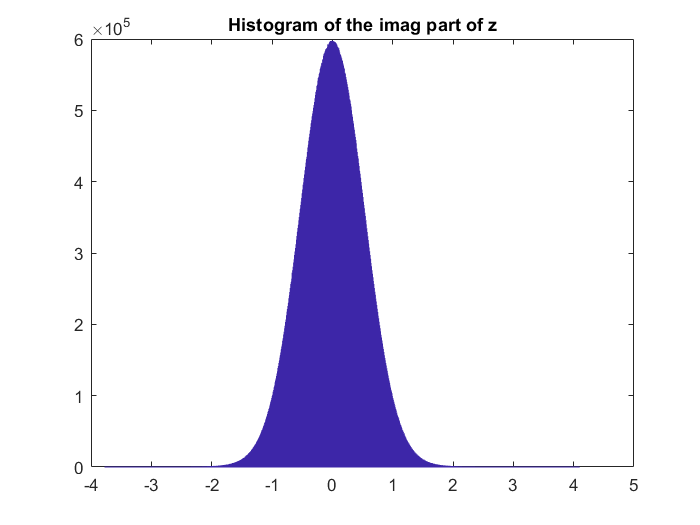
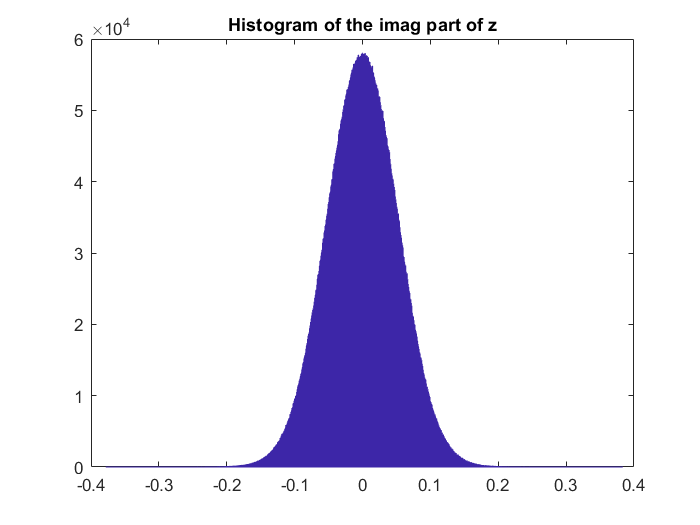
New scripts with different loss functions

diff --git a/Massive MIMO/simulations/Channel Estimation With Pilot Contamination in Flat Fading Channel/proposed_estimator_mean_and_variancev2.m b/Massive MIMO/simulations/Channel Estimation With Pilot Contamination in Flat Fading Channel/proposed_estimator_mean_and_variancev2.m
@@ -1,0 +1,54 @@
+clear all;close all;clc
+
+M = 10;
+a = 2;
+
+numIter = 100000;
+z1_acc = zeros(1,numIter);
+z2_acc = zeros(1,numIter);
+zM_acc = zeros(1,numIter);
+for iter=1:1:numIter
+    
+    x = sqrt(a)*(1/sqrt(2))*complex(randn(M,1),randn(M,1));
+    
+    denominator = (x'*x);
+    z1 = (x(1,1) / denominator);
+    z2 = (x(2,1) / denominator);
+    zM = (x(M,1) / denominator);
+    
+    z1_acc(iter) = z1;
+    z2_acc(iter) = z2;
+    zM_acc(iter) = zM;
+    
+end
+
+z1_real_mean = mean(real(z1_acc));
+z1_imag_mean = mean(imag(z1_acc));
+z1_var = var(z1_acc);
+
+z2_real_mean = mean(real(z2_acc));
+z2_imag_mean = mean(imag(z2_acc));
+z2_var = var(z2_acc);
+
+zM_real_mean = mean(real(zM_acc));
+zM_imag_mean = mean(imag(zM_acc));
+zM_var = var(zM_acc);
+
+n = M;
+u = -0.4:0.01:0.4;
+fu = zeros(1,length(u));
+for u_idx=1:1:length(u)
+    bessel1 = besseli(n,(1./(4*(u(u_idx).^2))));
+    bessel2 = besseli(n+1,(1./(4*(u(u_idx).^2))));
+    fu(u_idx) = exp(-1./(4*(u(u_idx).^2)))*( ( (8*n*u(u_idx).^2 - 1)*bessel1 + bessel2 ) / (4*(abs(u(u_idx)).^3)) );
+end
+
+figure(1);
+histogram(real(z1_acc),'Normalization','pdf');
+hold on
+plot(u,fu)
+hold off
+title('Histogram of the real part of z')
+figure(2)
+histogram(real(z1_acc),'Normalization','pdf'); 
+title('Histogram of the imag part of z')

diff --git a/Massive MIMO/simulations/Channel Estimation With Pilot Contamination in Flat Fading Channel/proposed_estimator_mean_and_variancev4.m b/Massive MIMO/simulations/Channel Estimation With Pilot Contamination in Flat Fading Channel/proposed_estimator_mean_and_variancev4.m
@@ -1,0 +1,51 @@
+clear all;close all;clc
+
+M = 10;
+a = 2;
+
+numIter = 10000000;
+z1_acc = zeros(1,numIter);
+z2_acc = zeros(1,numIter);
+zM_acc = zeros(1,numIter);
+for iter=1:1:numIter
+    
+    x = sqrt(a)*(1/sqrt(2))*complex(randn(M,1),randn(M,1));
+    
+    denominator = (x'*x);
+    z1 = (x(1,1) / denominator);
+    z2 = (x(2,1) / denominator);
+    zM = (x(M,1) / denominator);
+    
+    z1_acc(iter) = z1;
+    z2_acc(iter) = z2;
+    zM_acc(iter) = zM;
+    
+end
+
+z1_real_mean = mean(real(z1_acc));
+z1_imag_mean = mean(imag(z1_acc));
+z1_var = var(z1_acc);
+
+z2_real_mean = mean(real(z2_acc));
+z2_imag_mean = mean(imag(z2_acc));
+z2_var = var(z2_acc);
+
+zM_real_mean = mean(real(zM_acc));
+zM_imag_mean = mean(imag(zM_acc));
+zM_var = var(zM_acc);
+
+n = M;
+u = -0.4:0.01:0.4;
+%u = -0.01:0.001:0.01;
+fu = zeros(1,length(u));
+for u_idx=1:1:length(u)
+    bessel1 = besseli(n,(1./(4*(u(u_idx).^2))));
+    bessel2 = besseli(n+1,(1./(4*(u(u_idx).^2))));
+    fu(u_idx) = exp(-1./(4*(u(u_idx).^2)))*( ( (8*n*u(u_idx).^2 - 1)*bessel1 + bessel2 ) / (4*(abs(u(u_idx)).^3)) );
+end
+
+figure(1);
+%histogram(real(z1_acc),'Normalization','pdf');
+hold on
+plot(u,fu,'LineWidth',2)
+hold off

diff --git a/Massive MIMO/simulations/Deep Learning/deep_learning_mmimo_channel_estimation_loss_msa.py b/Massive MIMO/simulations/Deep Learning/deep_learning_mmimo_channel_estimation_loss_msa.py
@@ -32,13 +32,13 @@ model.add(Dense(M*K*2, activation='linear'))
 sgd = SGD(lr=0.01, decay=1e-6, momentum=0.9, nesterov=True)
 
 # Compile model.
-model.compile(loss='categorical_crossentropy', optimizer=sgd, metrics=['accuracy'])
+model.compile(loss='mean_absolute_error', optimizer=sgd, metrics=['accuracy'])
 
 # Train model.
-model.fit(x_train, y_train, epochs=20, batch_size=128)
+model.fit(x_train, y_train, epochs=100, batch_size=100)
 
 # Test model.
-score = model.evaluate(x_test, y_test, batch_size=128)
+score = model.evaluate(x_test, y_test, batch_size=100)
 
 print('Test loss:', score[0])
 print('Test accuracy:', score[1])

diff --git a/Massive MIMO/simulations/Deep Learning/deep_learning_mmimo_channel_estimation_loss_mse.py b/Massive MIMO/simulations/Deep Learning/deep_learning_mmimo_channel_estimation_loss_mse.py
@@ -32,13 +32,13 @@ model.add(Dense(M*K*2, activation='linear'))
 sgd = SGD(lr=0.01, decay=1e-6, momentum=0.9, nesterov=True)
 
 # Compile model.
-model.compile(loss='categorical_crossentropy', optimizer=sgd, metrics=['accuracy'])
+model.compile(loss='mean_squared_error', optimizer=sgd, metrics=['accuracy'])
 
 # Train model.
-model.fit(x_train, y_train, epochs=20, batch_size=128)
+model.fit(x_train, y_train, epochs=100, batch_size=100)
 
 # Test model.
-score = model.evaluate(x_test, y_test, batch_size=128)
+score = model.evaluate(x_test, y_test, batch_size=100)
 
 print('Test loss:', score[0])
 print('Test accuracy:', score[1])

diff --git a/Massive MIMO/simulations/Deep Learning/deep_learning_mmimo_channel_estimation_loss_cce.py b/Massive MIMO/simulations/Deep Learning/deep_learning_mmimo_channel_estimation_loss_cce.py
@@ -35,10 +35,10 @@ sgd = SGD(lr=0.01, decay=1e-6, momentum=0.9, nesterov=True)
 model.compile(loss='categorical_crossentropy', optimizer=sgd, metrics=['accuracy'])
 
 # Train model.
-model.fit(x_train, y_train, epochs=20, batch_size=128)
+model.fit(x_train, y_train, epochs=100, batch_size=100)
 
 # Test model.
-score = model.evaluate(x_test, y_test, batch_size=128)
+score = model.evaluate(x_test, y_test, batch_size=100)
 
 print('Test loss:', score[0])
 print('Test accuracy:', score[1])

diff --git a/Massive MIMO/simulations/Channel Estimation With Pilot Contamination in Flat Fading Channel/proposed_estimator_mean_and_variancev3.m b/Massive MIMO/simulations/Channel Estimation With Pilot Contamination in Flat Fading Channel/proposed_estimator_mean_and_variancev3.m
@@ -1,0 +1,14 @@
+clear all;close all;clc
+
+M = 10;
+
+n = M;
+u = -0.4:0.01:0.4;
+fu = zeros(1,length(u));
+for u_idx=1:1:length(u)
+    bessel1 = besseli(n,(1./(4*(u(u_idx).^2))));
+    bessel2 = besseli(n+1,(1./(4*(u(u_idx).^2))));
+    fu(u_idx) = exp(-1./(4*(u(u_idx).^2)))*( ( (8*n*u(u_idx).^2 - 1)*bessel1 + bessel2 ) / (4*(abs(u(u_idx)).^3)) );
+end
+
+plot(u,fu)
